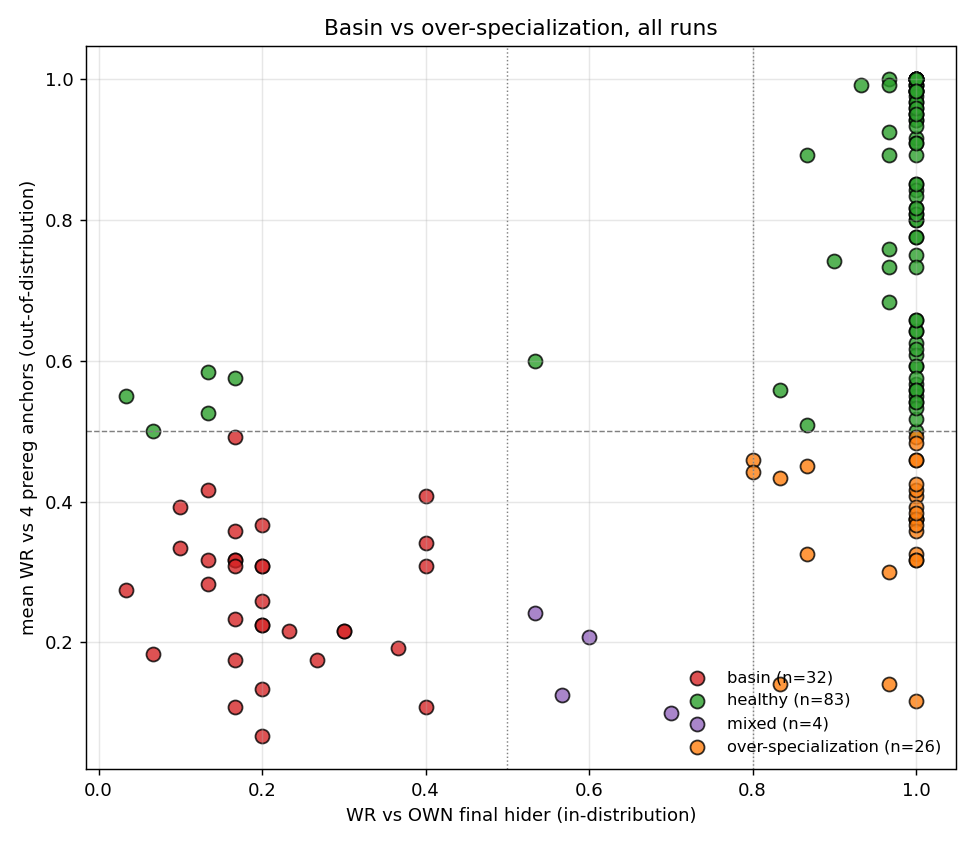
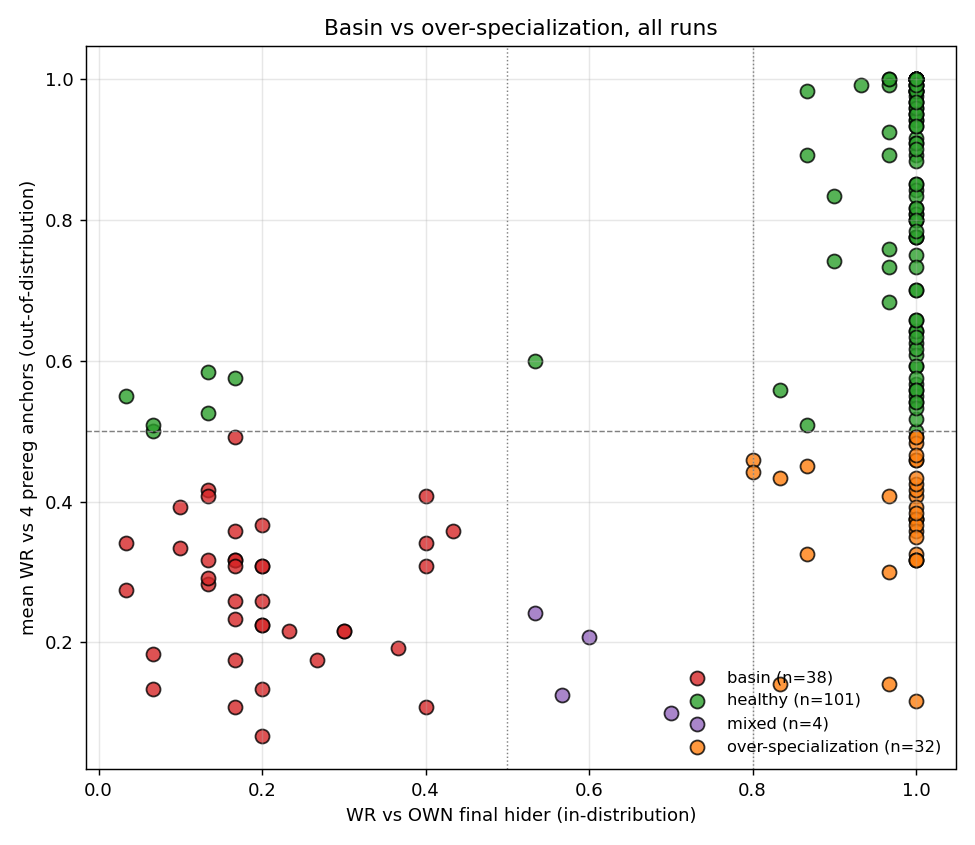
Apply adversarial-review fixes to the README story (+ measurement that revised a claim)
The review of the story itself found two internal contradictions,
three unmeasured caption claims, and five numeric inconsistencies.
All fixed:

- Reconciliation box added where the old 'zoo doesn't actually matter'
  null meets the certified +21pp interaction: main-effect search vs
  interaction effect, A=0-vs-1 tuned-HP SAC gauntlet vs A=0-vs-0.5 PPO
  panel. The old null is what an interaction looks like when averaged.
- Act V no longer claims shaped+zoo is 'the only cell with no lottery'
  (contradicted Act III's no-coverage cells and the cell's own 2/20
  over-specialists + 0.37 min); reframed as reward-side fix vs
  training-side fix, 'tamed, not abolished'. 04 GIF re-rendered with
  a title about the shown individual, not the cell.
- New --coverage-stats measurement (6x6 env grid, the bonus's own
  currency) PARTIALLY REFUTED my own Act III caption: the failed
  seeker visits only 7.7/36 cells/episode and covers LESS area per
  step than the healthy hunter (6.3 vs 9.7 cells/100 steps) — it is
  not farming coverage at eval time. Caption rewritten: the damage is
  done during training; the causal evidence is the ablation. 05 GIF
  re-rendered with an observation-only title.
- Removed unmeasured details ('stationary training partner', 'where
  its partner used to hide'); hedged the uncertified coverage x
  urgency 'corrals' claim per the results doc's own ledger.
- run_classification regenerated at 175 runs (figure previously showed
  145 while the text claimed 175).
[…]

diff --git a/experiments/animate_design_c_story.py b/experiments/animate_design_c_story.py
@@ -254,9 +254,34 @@ def save_gauntlet(seeker, opponents, suptitle: str, out_path: Path,
     print(f"saved {out_path}  ({out_path.stat().st_size / 1e6:.1f} MB)")
 
 
+def coverage_stats(seeker, hider, env_config, n_episodes: int = 30,
+                   base_seed: int = 500) -> Dict:
+    """Measure what the area-coverage bonus actually paid: unique cells of
+    the env's own 6x6 coverage grid visited by the seeker, per episode and
+    per 100 steps. Used to back the act-5 'patrols instead of chasing'
+    caption with a number instead of an eyeballed trajectory."""
+    half = env_config.arena_half
+    gsz = 6
+    cells_ep, per100, tags = [], [], 0
+    for k in range(n_episodes):
+        ep = run_episode(seeker, hider, env_config, rng_seed=base_seed + k)
+        pos = np.array([f["seeker_pos"] for f in ep["frames"]])
+        ij = np.clip(((pos + half) / (2 * half / gsz)).astype(int), 0, gsz - 1)
+        ncells = len({(a, b) for a, b in ij})
+        cells_ep.append(ncells)
+        per100.append(100.0 * ncells / max(ep["steps"], 1))
+        tags += int(ep["tagged"])
+    return dict(cells=float(np.mean(cells_ep)),
+                per100=float(np.mean(per100)),
+                wr=tags / n_episodes)
+
+
 def main():
     ap = argparse.ArgumentParser()
     ap.add_argument("--act", type=int, default=None, choices=[1, 2, 3, 4, 5, 6])
+    ap.add_argument("--coverage-stats", action="store_true",
+                    help="Print 6x6-grid coverage rates for the act-5 pair "
+                         "(tourist vs hunter) instead of rendering.")
     args = ap.parse_args()
 
     OUT_DIR.mkdir(parents=True, exist_ok=True)
@@ -273,6 +298,16 @@ def main():
                            obs_dim, act_dim)
 
     ref_hider = hider_of("anchors/R4_sparse/A00/seed_42")
+
+    if args.coverage_stats:
+        tourist = seeker_of("urgency_only_ablation/R7_no_urgency/A00/seed_8")
+        hunter = seeker_of("coverage_ablation/R7_no_coverage/A00/seed_7")
+        for name, pol in [("tourist (coverage, no urgency)", tourist),
+                          ("hunter (no coverage)", hunter)]:
+            s = coverage_stats(pol, ref_hider, env_config)
+            print(f"{name:32s} cells/episode={s['cells']:.1f}/36  "
+                  f"cells/100 steps={s['per100']:.1f}  wr={s['wr']:.2f}")
+        return
 
     if args.act in (None, 1):
         champ = seeker_of("grid/R7_kitchen_sink/A00/seed_2")
@@ -318,7 +353,7 @@ def main():
         ]
         save_gauntlet(
             rescue, opponents,
-            "The fix — shaping + zoo (A=0.5):\n99% vs the pool, no lottery",
+            "Shaping + zoo (A=0.5):\nthis seeker beats 99% of the pool",
             OUT_DIR / "04_zoo_rescue.gif", env_config)
 
     if args.act in (None, 5):
@@ -329,7 +364,7 @@ def main():
              pick_episode(hunter, ref_hider, env_config, want_tagged=True)],
             ["coverage bonus, no urgency  (12% vs anchors)",
              "coverage bonus removed  (89% vs anchors)"],
-            "The coverage trap: paid per grid cell visited, it patrols instead of chasing",
+            "The coverage trap: trained with an exploration bonus, it sweeps past the hider",
             OUT_DIR / "05_coverage_trap.gif", env_config, trail=60)
 
     if args.act in (None, 6):

diff --git a/paper/main.tex b/paper/main.tex
@@ -167,7 +167,7 @@ to $n{=}20$ seeds per cell (v3, frozen before launch, fixed-$n$, no
 interim fits); 195 training runs total.
 Following Section~\ref{sec:env}'s lesson that within-run metrics
 mislead --- every \textsc{R7} seeker reaches 88--96\% training win rate
-against its own hider while spanning 27--100\% against a common
+against its own hider while spanning 27--99\% against a common
 population --- all outcomes are population evals
 \cite{balduzzi2018reevaluating}: a $32\times32$ cross-pool gauntlet
 (99{,}200 episodes) and a fixed 4-anchor panel ($175$ runs $\times$ 5

diff --git a/README.md b/README.md
@@ -17,7 +17,7 @@ The repo hosts two research arcs. The first found that **algorithm choice (SAC v
 
 # What Reward Shaping Actually Buys You
 
-*A story in five acts, from a [pre-registered factorial study](experiments/design_c_results.md) of reward shaping × opponent diversity in PPO self-play: 195 training runs, ~100,000 evaluation episodes, one certified result, and two ways to lose. Every agent below is a real checkpoint from the study; every number is from the population evaluations, not the episodes shown. Regenerate the animations with `experiments/animate_design_c_story.py`.*
+*A story in five acts, from a [pre-registered factorial study](experiments/design_c_results.md) of reward shaping × opponent diversity in PPO self-play: 195 training runs (plus three 10M-step pilots), ~143,000 evaluation episodes, one certified result, and two ways to lose. Every agent below is a real checkpoint from the study; every number is from the population evaluations, not the episodes shown. Regenerate the animations with `experiments/animate_design_c_story.py`.*
 
 The two reward functions being compared:
 
@@ -36,7 +36,7 @@ The two seekers below trained with **identical rewards (R7), hyperparameters, en
   <img src="docs/design_c/01_seed_lottery.gif" alt="Two identically-configured seekers vs the same hider: seed 2 hunts it down, seed 4 wanders" width="720">
 </p>
 
-Dense shaping doesn't just buy a better average seeker (+30pp win rate over sparse) — it buys a **lottery ticket**. Between-seed variance under R7 is 3–4× higher than under R4 (σ = 2.0 vs 0.65 log-odds, non-overlapping credible intervals); seeds range from 27% to 99% against a common pool.
+Dense shaping doesn't just buy a better average seeker (+29pp win rate over sparse at A=0, +54pp with zoo training) — it buys a **lottery ticket**. Between-seed variance under R7 is 3–4× higher than under R4 (σ = 2.0 vs 0.65 log-odds, non-overlapping credible intervals); within the A=0 cell alone, seeds range from 22% to 99% against the same evaluation panel.
 
 And the training curves show *nothing*. Every R7 seeker — the 99% ones and the 27% ones — reaches 88–96% win rate against its own training partner. In self-play, the win rate you watch during training measures performance against one co-evolving opponent, and it is not commensurable across runs. Policy quality only exists relative to a population.
 
@@ -62,17 +62,17 @@ Sparse reward, pure self-play: 14 of 20 seeds never learn pursuit *at all* — n
   <img src="experiments/results/design_c/anchor_panel/run_classification.png" alt="Failure-mode taxonomy: basins never learn, over-specialists beat only their partner" width="640">
 </p>
 
-**Sparse fails by basin. Shaped fails by over-specialization.** They need different medicine — which is why the two remedies in this study interact instead of substituting.
+**Sparse fails by basin. Shaped fails by over-specialization.** (A third, rarer mode — the *hider* winning the arms race — appears when the hider's speed advantage grows; see the HSM flank in the results doc.) The two main modes need different medicine — which is why the two remedies in this study interact instead of substituting.
 
 ## Act III — The trap is a reward term
 
-Which shaping term makes over-specialists? Ablating them one at a time points at the **area-coverage bonus** — a reward per new grid cell visited, added to encourage exploration. Watch what it actually teaches, once the escalating time pressure that normally corrals it is removed:
+Which shaping term makes over-specialists? Ablating them one at a time points at the **area-coverage bonus** — a reward per new cell of a 6×6 grid visited, added to encourage exploration. Watch a seeker trained with the bonus (and without the escalating time pressure that appears to counteract it — that interaction is directionally consistent but not statistically certified):
 
 <p align="center">
-  <img src="docs/design_c/05_coverage_trap.gif" alt="A coverage-paid seeker patrols the arena walls, sweeping past the hider without engaging; with the bonus removed, the seeker hunts and tags" width="720">
+  <img src="docs/design_c/05_coverage_trap.gif" alt="A coverage-trained seeker sweeps along the walls past the hider without engaging; with the bonus removed, the seeker hunts and tags" width="720">
 </p>
 
-The left seeker is *patrolling*, not chasing — long wall-following sweeps straight past the hider. It was paid to visit grid cells, and in self-play it could keep beating its stationary training partner while doing so, so nothing ever corrected it. Remove the coverage bonus and the cell goes **15/15 healthy** with the best mean of any cell (0.82); remove coverage *and* urgency and most of the between-seed variance disappears with it (σ: 1.7–2.1 → 0.95).
+The left seeker sweeps straight past a hider it should be chasing. Interestingly, it is *not* farming coverage at eval time — we measured exactly what the bonus pays, and the failed seeker visits only 7.7 of 36 grid cells per episode, covering *less* new area per step than the healthy hunter on the right (6.3 vs 9.7 cells per 100 steps; `--coverage-stats`). The bonus does its damage during *training*: it rewards a policy for something other than tracking the opponent, and self-play never corrects the drift because the co-evolving partner is beatable anyway. The causal evidence is the ablation: remove the coverage bonus and the cell goes **15/15 healthy** with the best mean of any cell (0.82); remove coverage *and* urgency and most of the between-seed variance disappears with it (σ: 1.7–2.1 → 0.95).
 
 One caveat the follow-up experiments added: against a *sparse-trained* (narrower) partner, over-specialists re-emerge even without coverage. Partner narrowness enables the trap; coverage amplifies it.
 
@@ -84,7 +84,7 @@ Zoo training replaces the live training partner, with probability A, by a random
   <img src="docs/design_c/06_zoo_dose.gif" alt="The same seed at A=0, 0.1, and 0.5: over-specialist, healthy, healthy — the lottery ticket gets de-risked" width="1000">
 </p>
 
-At A=0 this seed guards the safe zone where its partner used to hide — an over-specialist (0.49). At A=0.1 it generalizes (0.92). At A=0.5 it is flawless (1.00). Across cells, the dose–response is mode-specific: **basins vanish by A ≥ 0.1** (a small dose breaks the never-learn equilibrium), while **over-specialization shrinks ~3× by A = 0.5** but keeps a tail — un-narrowing a policy takes sustained diversity. A behavioral panel of the final hiders shows A works through the *history* the seeker is exposed to, not by making the final partner more diverse.
+At A=0 this seed loiters near the safe zone instead of engaging the hider in the corner — an over-specialist (0.49 against the panel, 1.00 against its own partner). At A=0.1 it generalizes (0.92). At A=0.5 it is flawless (1.00). Across cells, the dose–response is mode-specific: **basins vanish by A ≥ 0.1** (a small dose breaks the never-learn equilibrium), while **over-specialization shrinks ~3× by A = 0.5** but keeps a tail — un-narrowing a policy takes sustained diversity. A behavioral panel of the final hiders shows A works through the *history* the seeker is exposed to, not by making the final partner more diverse.
 
 ## Act V — Complements, certified
 
@@ -93,7 +93,7 @@ We pre-registered the natural hypothesis: zoo training *substitutes* for shaping
 > **Shaping × zoo interaction: β = +2.05 log-odds, 95% CrI [+0.72, +3.45], P(>0) = 0.999.**
 > On the win-rate scale: zoo training adds **+21pp under dense shaping** [+5, +37] and nothing under sparse (β_A ≈ 0).
 
-They are **complements**: shaping is what makes opponent diversity useful (a basin learns nothing from diverse opponents), and diversity is what de-risks shaping (it's the anti-over-specialization treatment). The combination is the only cell with no lottery:
+They are **complements**: shaping is what makes opponent diversity useful (a basin learns nothing from diverse opponents), and diversity is what de-risks shaping (it's the anti-over-specialization treatment). Note the study offers *two* fixes for the lottery — removing the coverage term is the reward-side fix (Act III), zoo dose is the training-side fix — and they attack the same failure mode from different ends. Among the pre-registered cells, shaped + zoo is the strongest and safest (mean 0.81; over-specialists thinned to 2/20, not zero — the lottery is tamed, not abolished):
 
 <p align="center">
   <img src="docs/design_c/04_zoo_rescue.gif" alt="A shaped, zoo-trained seeker tags sparse-trained, shaped, and zoo-trained hiders in sequence — 3 for 3" width="420">
@@ -160,6 +160,8 @@ When we [re-evaluated with Optuna-optimized hyperparameters](https://kilojoules.
 - SAC exhibits massive forgetting (FR=0.36) but still produces the strongest agents
 
 The initial zoo improvement was an artifact of within-run evaluation — the zoo helped the seeker beat *its own* hider, but not arbitrary opponents.
+
+> **How does "zoo doesn't matter" square with the certified +21pp zoo effect in the story above?** Different regimes, and — more importantly — different questions. This null compared A=0 to A=1 (full zoo replacement) with Optuna-tuned hyperparameters in a SAC-dominated cross-algorithm gauntlet, and asked about the zoo's *main effect*. The pre-registered study compared A=0 to A=0.5 in PPO and found the zoo effect exists only in *interaction* with dense reward shaping: +21pp for shaped agents, nothing for sparse ones (β_A ≈ 0). Averaged over reward conditions — which is what a main-effects search does — the interaction washes out to roughly the null this section reports. The earlier analysis wasn't wrong; it was asking a question whose answer is "it depends," and couldn't see the "depends."
 
 ---
 
@@ -292,7 +294,7 @@ Over 1,500 training runs across all experiments:
 | FR sweep (v1 + v2) | 300 | 5M | 1.5B |
 | HPO (Optuna) | 200 | 1M | 200M |
 | Entropy ablation | 33 | 5M | 165M |
-| Design C (prereg factorial + ablations + deconfound) | 198 | 5M | ~1B |
+| Design C (prereg factorial + ablations + deconfound) | 195 + 3 pilots | 5M (pilots 10M) | ~1B |
 
 All evaluated via cross-config gauntlets (20-50 episodes per matchup).
 
